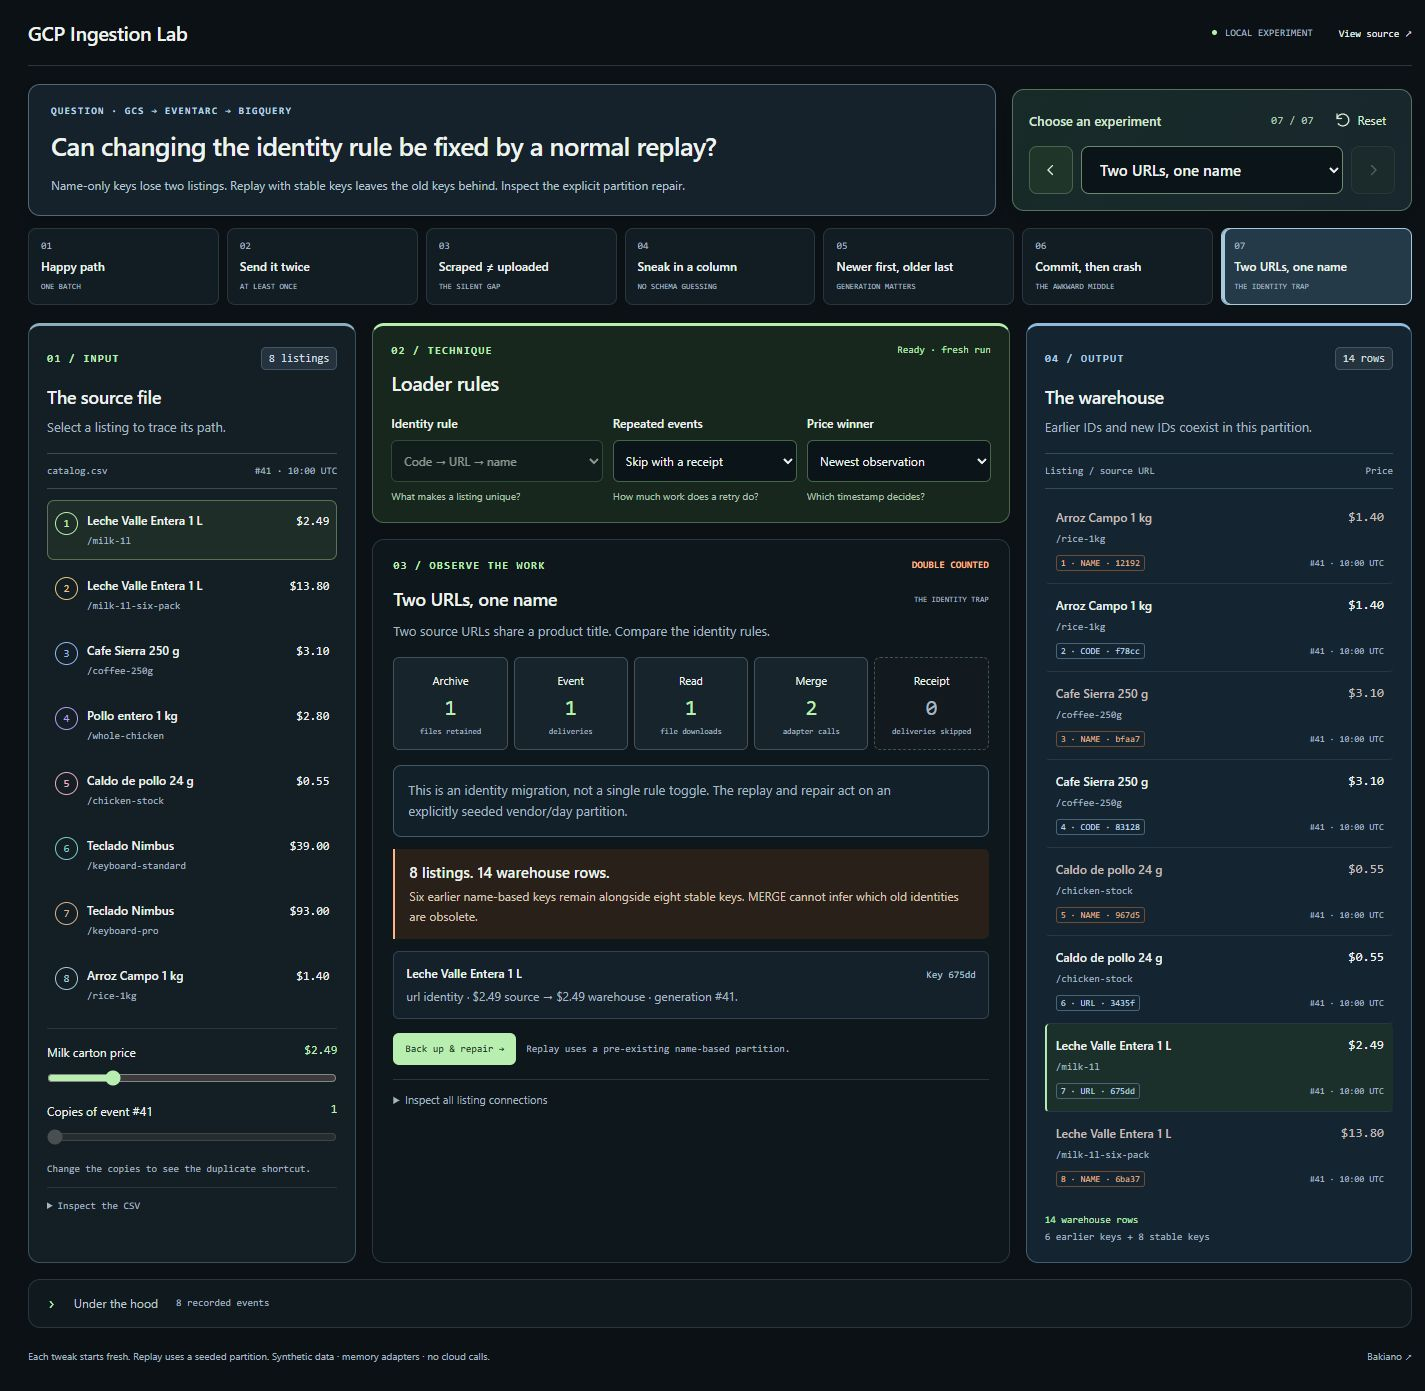
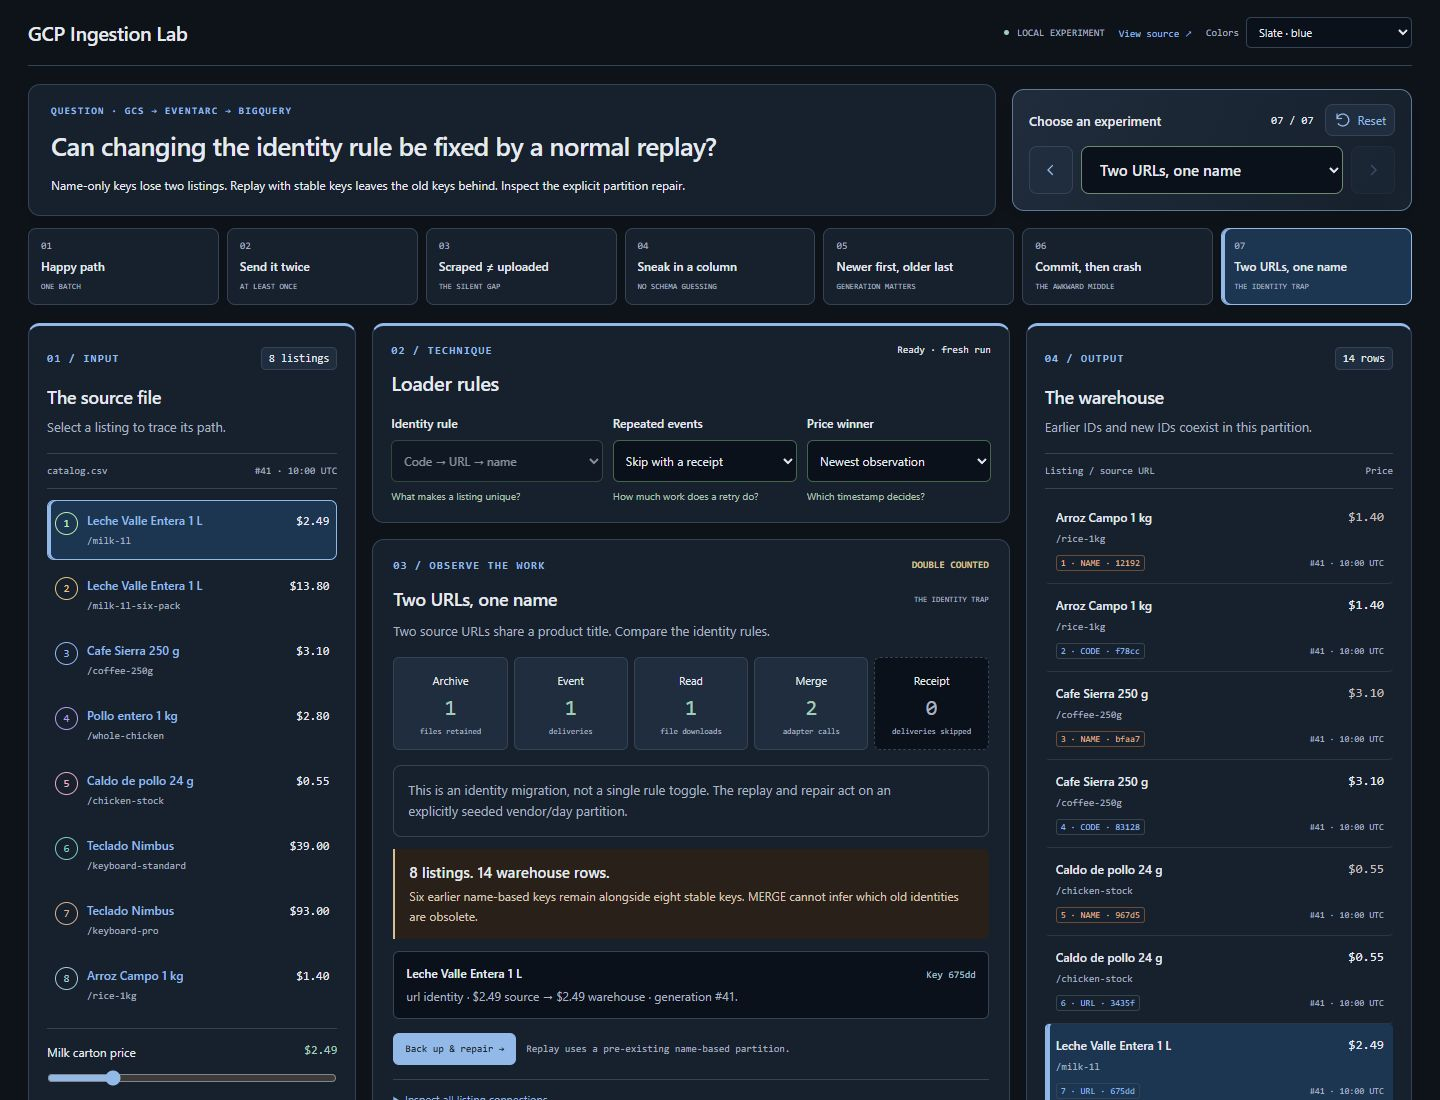
docs: refresh remaining ingestion UI screenshots

Changed region(s): [[0.0, 0.0, 1.0, 1.0], [0.9572, 0.0, 0.9881, 0.0309], [0.7411, 0.0, 0.7719, 0.0309]]

diff --git a/docs/screenshots.md b/docs/screenshots.md
@@ -1,0 +1,13 @@
+# Screenshot captures
+
+The referenced UI screenshots use the current Slate / blue palette. Browser captures include the visible interface and its evidence; they are not generated mockups.
+
+| Image | Capture recipe |
+| --- | --- |
+| demo-desktop.jpg | Send it twice, default rules, desktop |
+| demo-mobile.jpg | Send it twice, default rules, 390 × 844 phone viewport, full page |
+| identity-replay.jpg | Two URLs, one name → Replay with stable IDs; verify 14 warehouse rows, then return to the page header before capturing the desktop viewport |
+
+The mobile and identity-replay images were refreshed on 2026-10-07. Desktop captures use a 1440 × 1100 viewport; scrollbar space may reduce the image width. Each fixture run is local and makes no cloud calls.
+
+After a UI or palette change, refresh all three images referenced by the README and workbench guide. Inspect headings, controls, result counts and phone framing before committing.

diff --git a/docs/workbench.md b/docs/workbench.md
@@ -27,3 +27,5 @@ Expand the CSV to inspect raw bytes, the connection diagram to trace all keys, o
 Each edit starts fresh. All listings are synthetic; local adapters are not a cloud emulator. The unsafe comparison rules cannot be supplied to the deployed cloud receiver.
 
 ![Mobile duplicate-event comparison](images/demo-mobile.jpg)
+
+See the [capture recipes](screenshots.md) when refreshing the UI images.
